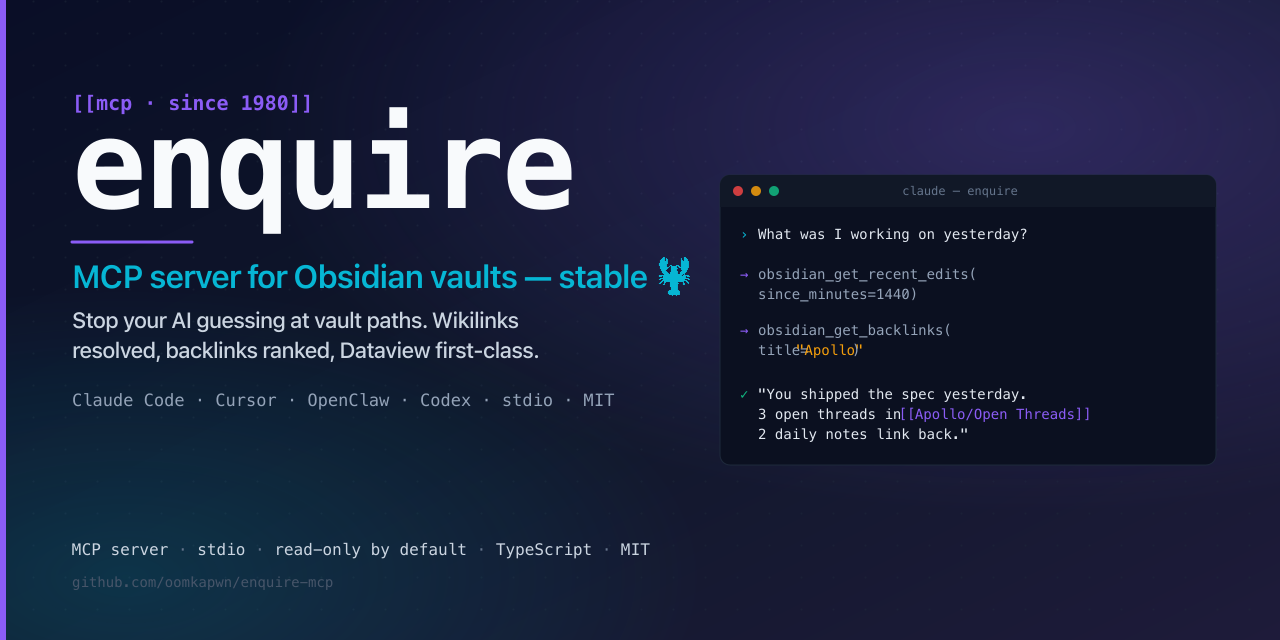
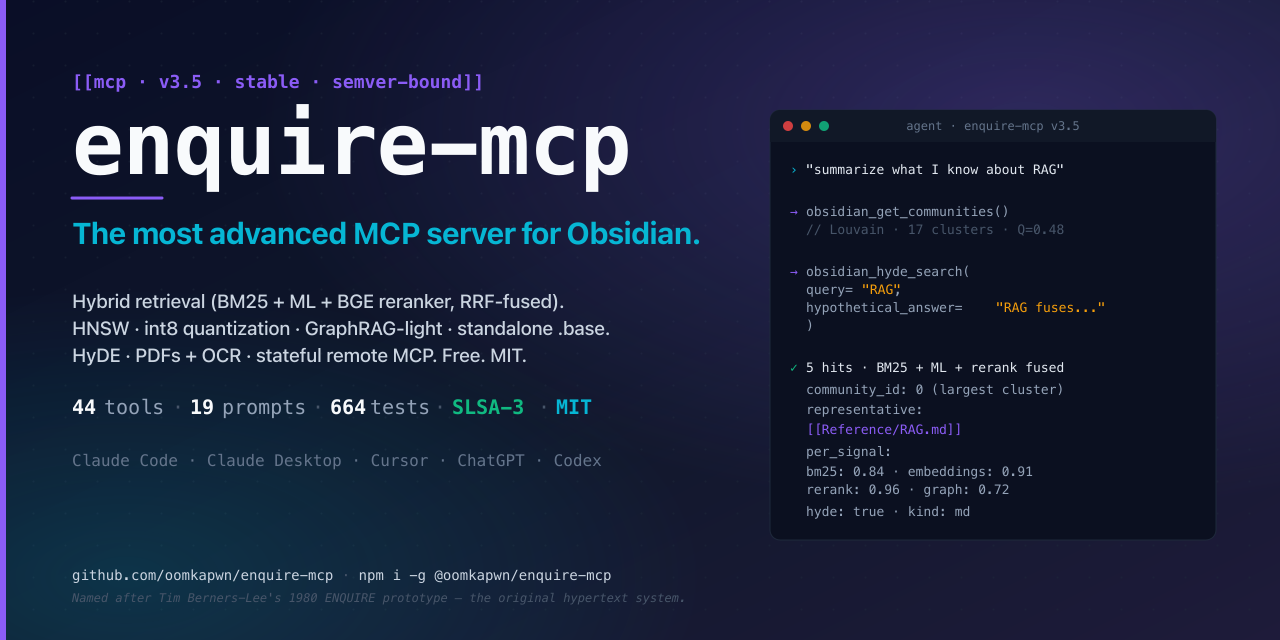
docs: refresh social preview for v3.x feature set + fix timezone flake in periodic-alias test
assets/social-preview.svg + .png:
- Updated brand to current v3.5 stable framing
- Subtitle: "The most advanced MCP server for Obsidian." (matches README)
- Tagline: hybrid retrieval + GraphRAG-light + standalone .base + HyDE +
  PDFs/OCR + stateful remote MCP — the actual unique stack
- Stat row: 44 tools / 19 prompts / 664 tests / SLSA-3 / MIT
- Clients row: Claude Code / Claude Desktop / Cursor / ChatGPT / Codex
- Terminal mockup: real v3.x flow — get_communities → hyde_search →
  per_signal observability with community_id, hyde flag, kind=md.
  Shows the unique capabilities side-by-side, not generic v1-style
  get_recent_edits.
- Brand size tuned (86px) to leave clearance for the terminal mockup.

tests/security.test.ts:
- Periodic-alias test created today's daily note via UTC date
  (`toISOString().slice(0, 10)`), but the resolver in src/periodic.ts
  uses LOCAL date methods (getFullYear/getMonth/getDate). The two
  disagreed for ~3 hours per day around UTC midnight in non-UTC
  timezones, producing a flake where the test couldn't find the file
  it had just written. Switched to local-date construction matching
  the resolver — timezone-stable.

Tests: 664 (unchanged surface; the flaky one now passes consistently).

diff --git a/tests/security.test.ts b/tests/security.test.ts
@@ -496,7 +496,13 @@ describe("Vault — periodic-alias resolver respects exclusions (v1.11.1)", () =
       JSON.stringify({ folder: "Daily Notes", format: "YYYY-MM-DD" })
     );
     // Today's daily note exists but is excluded by the user's filter.
-    const today = new Date().toISOString().slice(0, 10);
+    // The periodic-alias resolver in src/periodic.ts uses LOCAL date
+    // methods (getFullYear/getMonth/getDate), not UTC. Test must match
+    // that to be timezone-stable — pre-fix used `toISOString().slice(0, 10)`
+    // which is UTC and flakes during the few hours per day when local
+    // and UTC dates disagree.
+    const now = new Date();
+    const today = `${now.getFullYear()}-${String(now.getMonth() + 1).padStart(2, "0")}-${String(now.getDate()).padStart(2, "0")}`;
     await fs.writeFile(path.join(vroot, "Daily Notes", `${today}.md`), "private daily entry");
   });
   afterEach(async () => {
